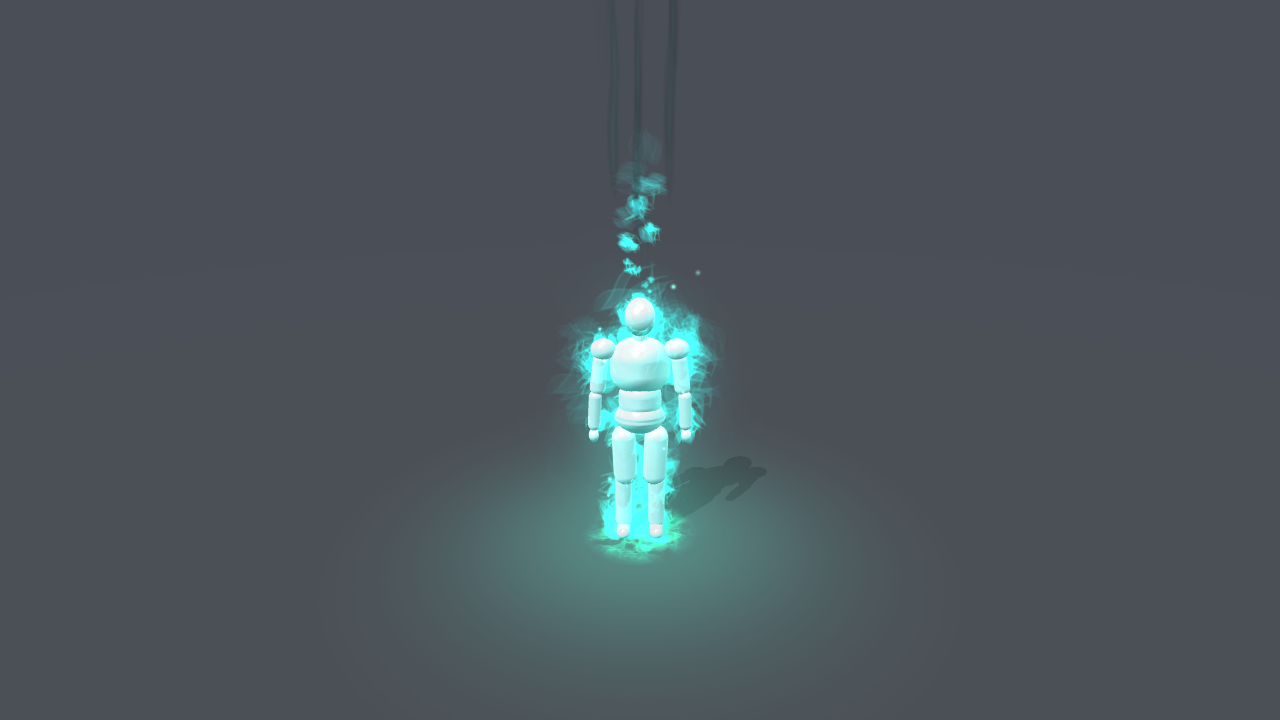
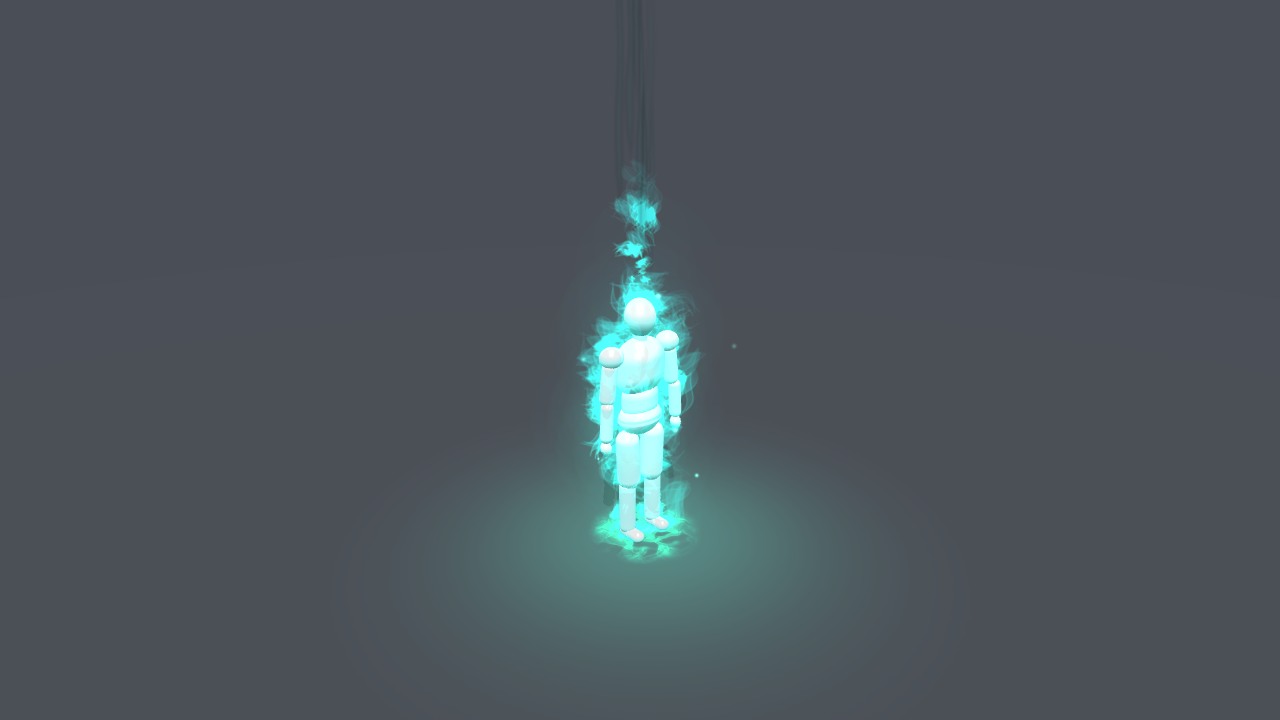
Flame aura demo: turn the camera round the figure
The reference turns its camera round the figure once every 4.6 seconds;
the demo now does the same.

Claude-Session: https://claude.ai/code/session_01HtcrPtWdY6wY2hETrLx4S5

Changed region(s): [[0.4375, 0.2444, 0.5625, 0.7944]]

diff --git a/examples/src/demos/flameAura.ts b/examples/src/demos/flameAura.ts
@@ -640,3 +640,10 @@ export function init({scene, camera, batchRenderer, systems}: DemoContext) {
         systems.push(system);
     }
 }
+
+/** One turn of the camera round the figure every 4.6 seconds, as the reference's turntable. */
+const ORBIT_SPEED = (Math.PI * 2) / 4.6;
+
+export function update({camera}: DemoContext, delta: number) {
+    camera.alpha += ORBIT_SPEED * delta;
+}
